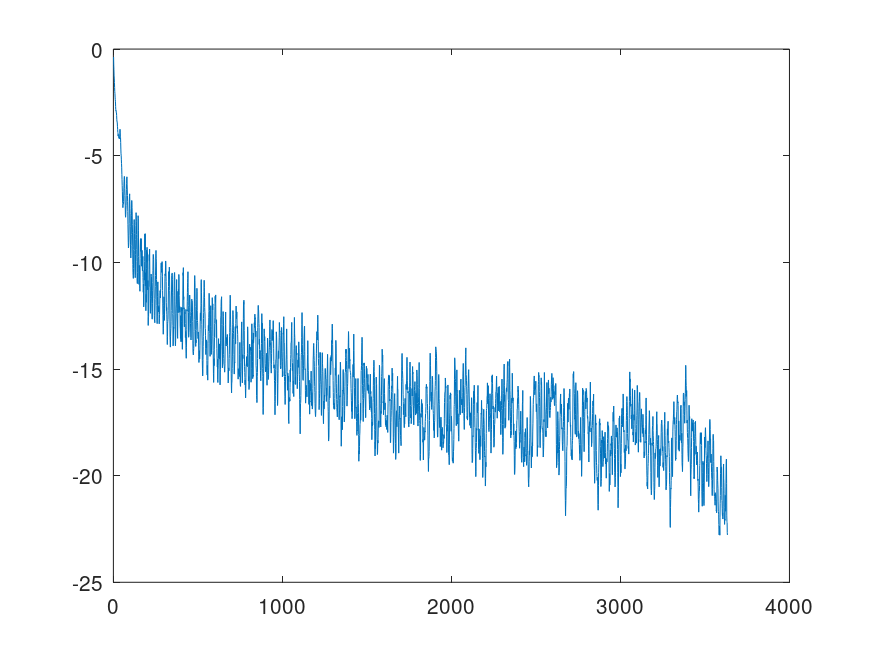
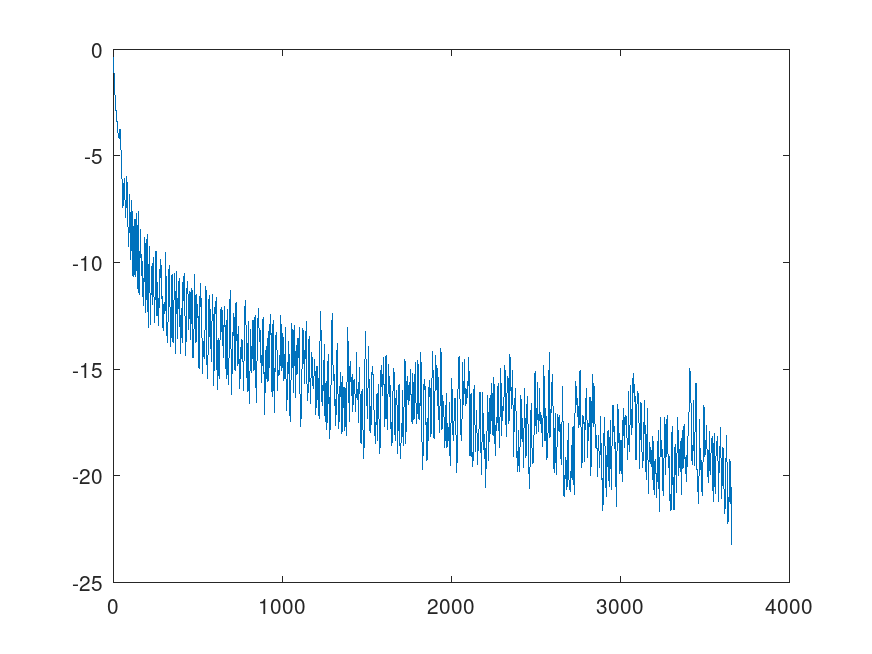
Doing all experiments

Changed region(s): [[0.1239, 0.1835, 0.836, 0.8257], [0.1239, 0.0917, 0.1548, 0.1223]]

diff --git a/gmres_experiment.m b/gmres_experiment.m
@@ -1,33 +1,39 @@
 function gmres_experiment()
-    matrices = {"olm100", "oscil_dcop_02", "cavity05", "coater2", "Dubcova1"};
+    % matrices = {"olm100", "oscil_dcop_02", "cavity05", "coater2", "Dubcova1"};
+    matrices = {"coater2", "Dubcova1"};
 
     ks = [5, 25, 50, 75];
 
-    tols = [10e-6, 10e-8, 10e-9, 10e-11];
+    % tols = [10e-6, 10e-8, 10e-9, 10e-11];
+    tols = [10e-8];
 
     for i = 1 : numel(matrices)
         matrices{i}
         load(sprintf("in/%s.mat", matrices{i}));
         A = Problem.A;
-        [x, cflag, relres, iter, resvec, tol, maxit] = test_gmres_params(A, ones(rows(A), 1), ks, tols, 1e5);
+        [x, cflag, relres, iter, resvec, k, tol, maxit] = test_gmres_params(A, ones(rows(A), 1), ks, tols, 1e5);
+
+        n_iter = iter(1,1) * k + iter(1,2);
 
         f = fopen(sprintf("out/%s.txt", matrices{i}), "w");
         fprintf(f, "n = %d\n", rows(A));
         fprintf(f, "nnz = %d\n", nnz(A));
         fprintf(f, "flag = %d\n", cflag);
-        fprintf(f, "iterations = %d\n", iter);
+        fprintf(f, "iterations = %d\n", n_iter);
         fprintf(f, "sol. norm = %f\n", norm(x, inf));
+        fprintf(f, "k = %d\n", k);
         fprintf(f, "tol = %f\n", tol);
         fprintf(f, "maxit = %d\n", maxit);
         fclose(f);
 
-        aux_resvec = zeros(iter, 1);
-        for j = 1 : iter
+        m = min(n_iter, numel(resvec));
+        aux_resvec = zeros(m, 1);
+        for j = 1 : m
             aux_resvec(j) = resvec(j);
         end
 
         hf = figure();
-        plot(1:iter, log(aux_resvec));
+        plot(1:m, log(aux_resvec));
         print(hf, sprintf("out/%s.png", matrices{i}), "-dpng");
     endfor
 end
